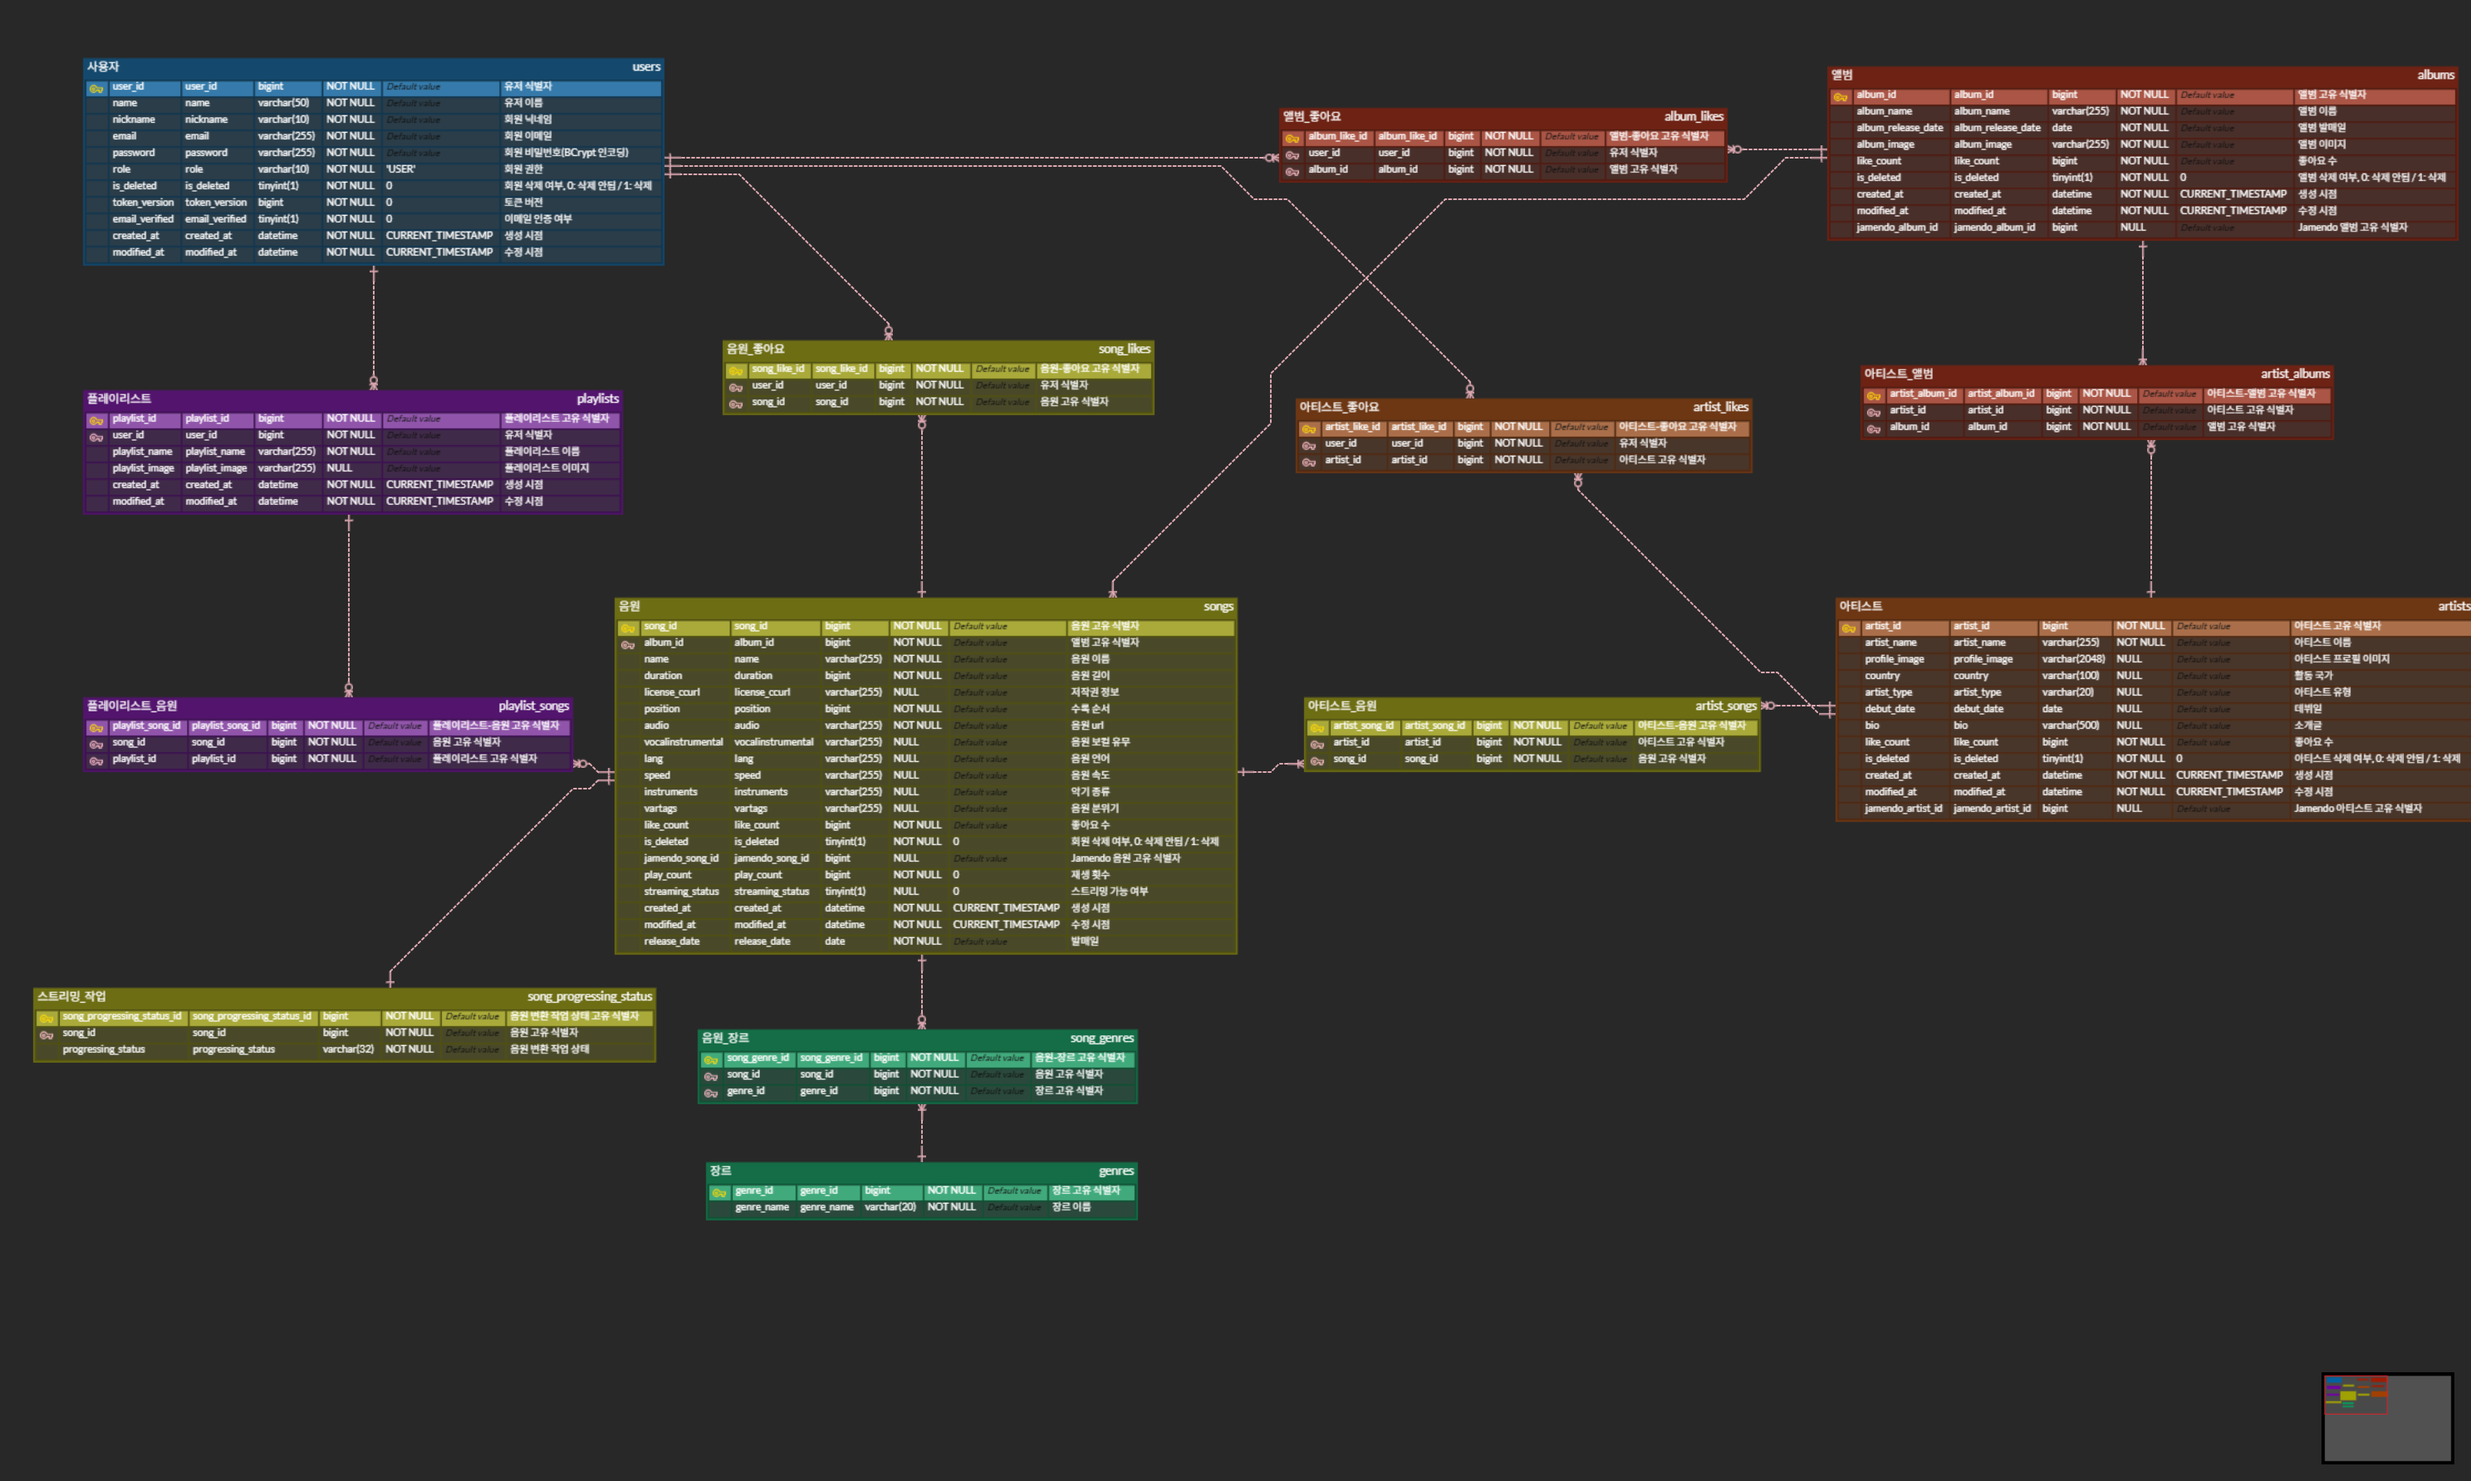
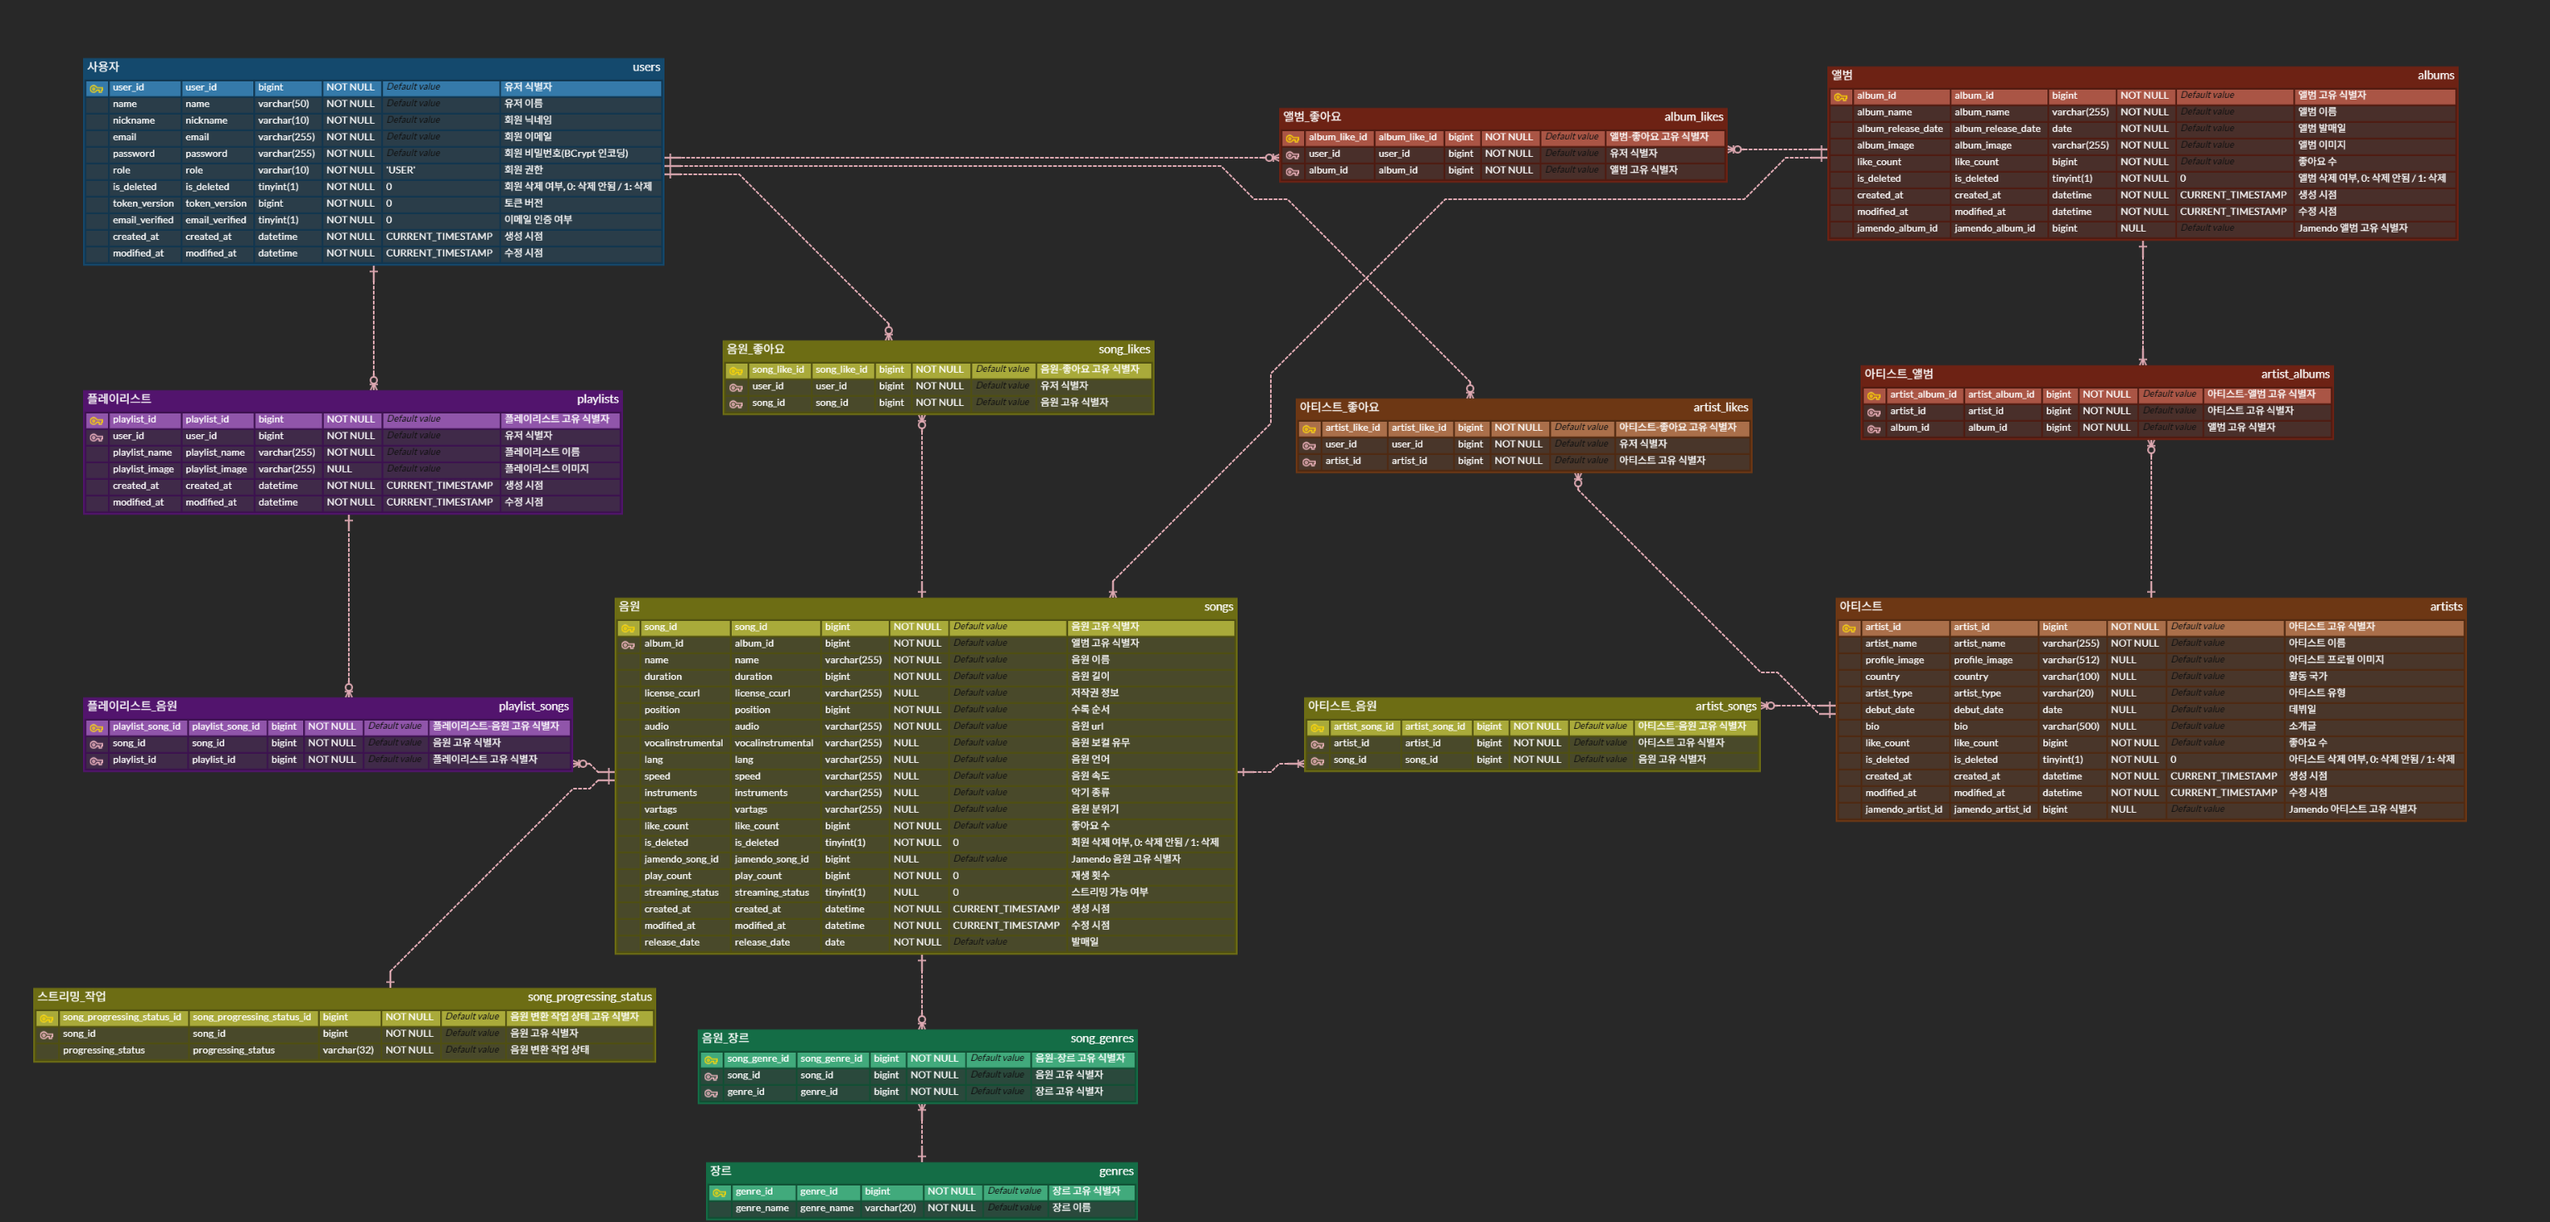
♻ refactor: 필드명 변경 및 DDL, ERD 파일 추가
- SongArtistDetailResponseDto jobStatus → progressingStatus 필드명 변경
- artists.profile_image 컬럼 길이 VARCHAR(2048) → VARCHAR(512) 수정 DDL 추가
- ERD 파일 최신 구조로 재추가
- 불필요한 import 제거

diff --git a/src/main/java/com/example/peachmusic/domain/song/repository/SongCustomRepositoryImpl.java b/src/main/java/com/example/peachmusic/domain/song/repository/SongCustomRepositoryImpl.java
@@ -25,7 +25,6 @@ import static com.example.peachmusic.domain.album.entity.QAlbum.album;
 import static com.example.peachmusic.domain.artist.entity.QArtist.artist;
 import static com.example.peachmusic.domain.artistsong.entity.QArtistSong.artistSong;
 import static com.example.peachmusic.domain.song.entity.QSong.song;
-import static com.example.peachmusic.domain.songlike.entity.QSongLike.songLike;
 import static com.example.peachmusic.domain.songprogressingstatus.entity.QSongProgressingStatus.songProgressingStatus;
 
 public class SongCustomRepositoryImpl implements SongCustomRepository {

diff --git a/src/main/java/com/example/peachmusic/domain/song/dto/response/SongArtistDetailResponseDto.java b/src/main/java/com/example/peachmusic/domain/song/dto/response/SongArtistDetailResponseDto.java
@@ -15,7 +15,7 @@ public class SongArtistDetailResponseDto {
     private final String artistName;
     private final Long likeCount;
     private final String albumImage;
-    private final ProgressingStatus jobStatus;
+    private final ProgressingStatus progressingStatus;
     private final boolean isLiked;
     private final Long albumId;
     private final LocalDate albumReleaseDate;
